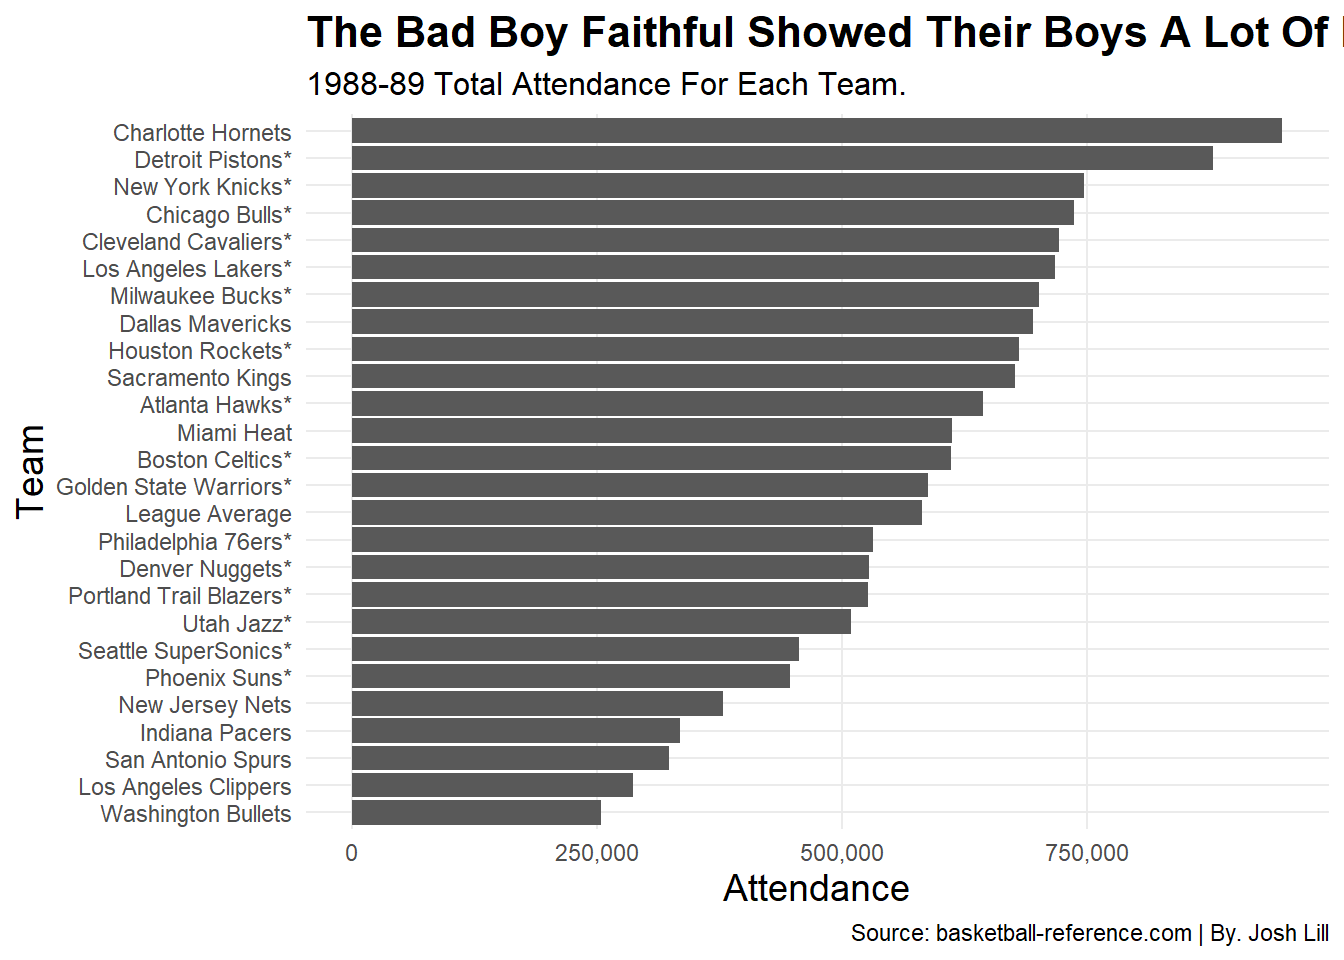
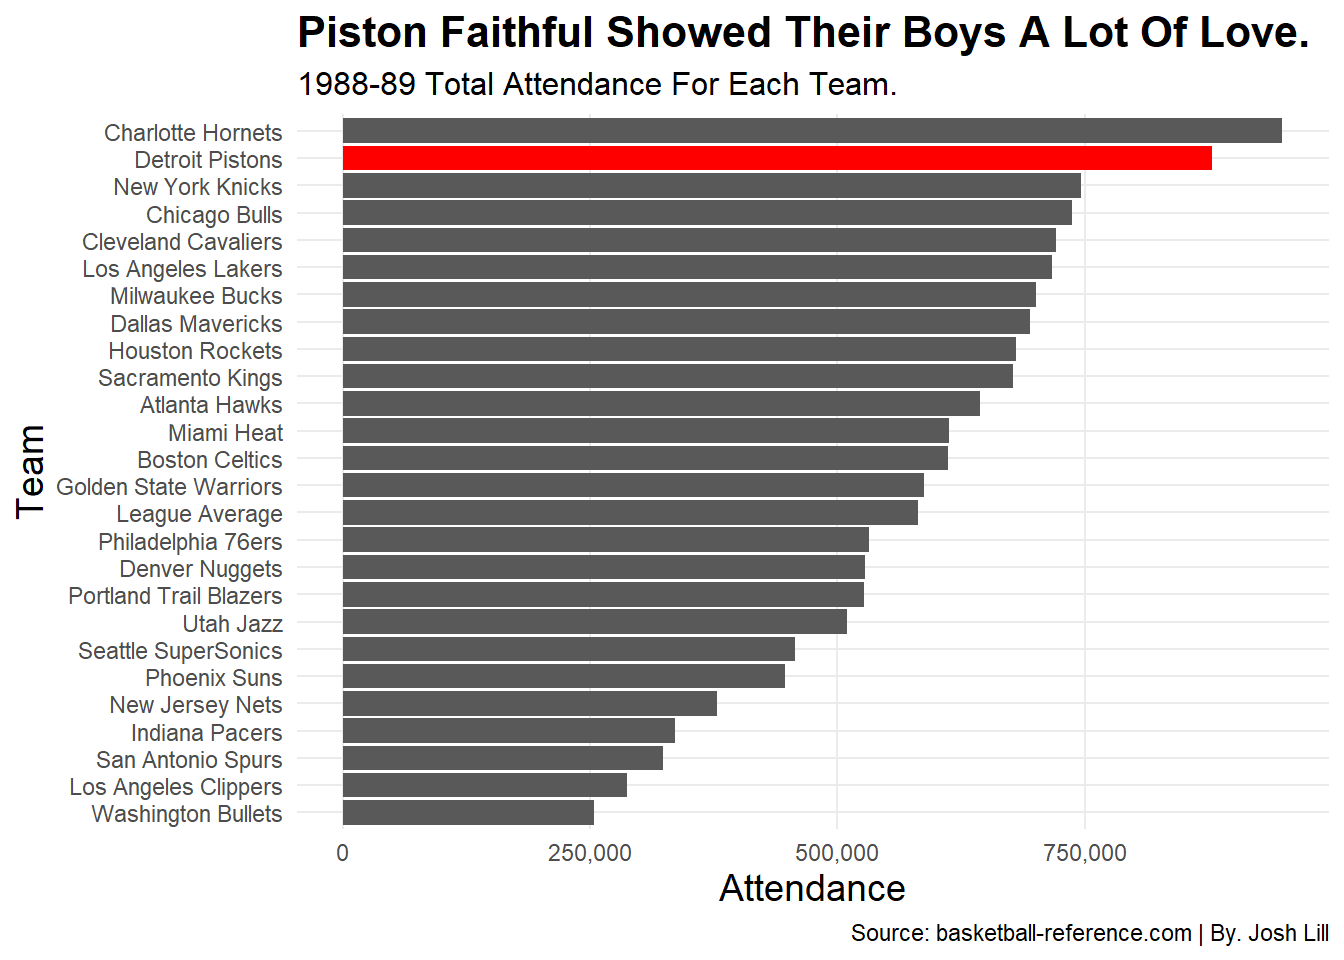
Fianl ditsdfsapiss??
eay

diff --git a/2022/04/26/what-made-the-detroit-bad-boy-pistons-so-bad/index.html b/2022/04/26/what-made-the-detroit-bad-boy-pistons-so-bad/index.html
@@ -22,11 +22,6 @@
 
 
 
-
-<link href='//cdnjs.cloudflare.com/ajax/libs/highlight.js/9.12.0/styles/github.min.css' rel='stylesheet' type='text/css' />
-
-
-
 <link rel="stylesheet" href="/css/fonts.css" media="all">
 <link rel="stylesheet" href="/css/main.css" media="all">
 
@@ -62,7 +57,7 @@
 
   <article class="article">
     
-    <span class="article-duration">11 min read</span>
+    <span class="article-duration">12 min read</span>
     
 
     <h1 class="article-title">What Made The Detroit &#34;Bad Boy&#34; Pistons So Bad?</h1>
@@ -489,7 +484,7 @@
       <th colspan="2" class="gt_heading gt_title gt_font_normal" style="color: #000000; text-align: left; font-weight: bold;">1988-89 NBA Standings</th>
     </tr>
     <tr>
-      <th colspan="2" class="gt_heading gt_subtitle gt_font_normal gt_bottom_border" style="color: #0000FF; text-align: left;">Detroit is in yellow; NBA Finals Runner-Up is in red</th>
+      <th colspan="2" class="gt_heading gt_subtitle gt_font_normal gt_bottom_border" style="color: #0000FF; text-align: left;">Detroit is in yellow; NBA Finals Runner-Up is in red.</th>
     </tr>
   </thead>
   <thead class="gt_col_headings">
@@ -967,7 +962,7 @@
       <th colspan="2" class="gt_heading gt_title gt_font_normal" style="color: #000000; text-align: left; font-weight: bold;">1989-90 NBA Standings</th>
     </tr>
     <tr>
-      <th colspan="2" class="gt_heading gt_subtitle gt_font_normal gt_bottom_border" style="color: #0000FF; text-align: left;">Detroit is in yellow; NBA Finals Runner-Up is in red</th>
+      <th colspan="2" class="gt_heading gt_subtitle gt_font_normal gt_bottom_border" style="color: #0000FF; text-align: left;">Detroit is in yellow; NBA Finals Runner-Up is in red.</th>
     </tr>
   </thead>
   <thead class="gt_col_headings">
@@ -1057,12 +1052,13 @@ Part of reason for their success here was Southeastern Oklahoma State University
 The exhilarating crowd only put fuel on the fire for the Pistons to play very aggressively. Even if they were on the road, other fan bases despised them so much that those implications would often help them play even better. Their play wouldn’t necessarily be clean, however.</p>
 <p>Flagrant fouls would fly left and right and other teams’ best players would be injured during games. They would do anything in anyway to find a way to win. For a great example, take a look at the Jordan Rules!</p>
 <p>Just as a team’s fan base disliked the Pistons play, so did each team itself. Detroit was fouled the second most during their 1989 title campaign and the most throughout their 1990 title run.</p>
-<pre><code>attendance &lt;- read_csv(&quot;NewAdvancedStats1988_89.csv&quot;)
-
-top10fouls &lt;- fouls %&gt;%
-  arrange(desc(`Attend.`)) %&gt;%
-  top_n(10, `Attend.`)```
-</code></pre>
+<p><img src="http://j-lill1102.github.io/2022/04/26/what-made-the-detroit-bad-boy-pistons-so-bad/index_files/figure-html/unnamed-chunk-15-1.png" width="672" /></p>
+<p><img src="http://j-lill1102.github.io/2022/04/26/what-made-the-detroit-bad-boy-pistons-so-bad/index_files/figure-html/unnamed-chunk-17-1.png" width="672" />
+```</p>
+<p>Detroit, from the Bad Boy era, eventually ended up having six players make the all-time top 125 for most personal fouls.</p>
+<p>Those players: James Edwards, Bill Laimbeer, Rick Mahorn, Isiah Thomas, Dennis Rodman and Daryl Dawkins.</p>
+<p>Looking back, Detroit made basketball tough. Their hard-nosed grit and determination win their own way and not the league’s way set them apart from others. They showed that you didn’t necisarrliy need to be the best and flashiest offense to win. There defense and on-court antics helped make up for.</p>
+<p>It would be interesting to see how long their style of play would have lasted in today’s NBA.</p>
 <p>Note: The code that made this blog possible can be found <a href="https://github.com/j-lill1102/j-lill1102.github.io">here</a>.</p>
 
     </div>
@@ -1086,18 +1082,6 @@ top10fouls &lt;- fouls %&gt;%
 
     </div>
     
-
-
-
-<script src="//cdnjs.cloudflare.com/ajax/libs/highlight.js/9.12.0/highlight.min.js"></script>
-
-
-
-<script src="//cdnjs.cloudflare.com/ajax/libs/highlight.js/9.12.0/languages/r.min.js"></script>
-<script src="//cdnjs.cloudflare.com/ajax/libs/highlight.js/9.12.0/languages/yaml.min.js"></script>
-<script>hljs.configure({languages: []}); hljs.initHighlightingOnLoad();</script>
-
-
 
     
 
